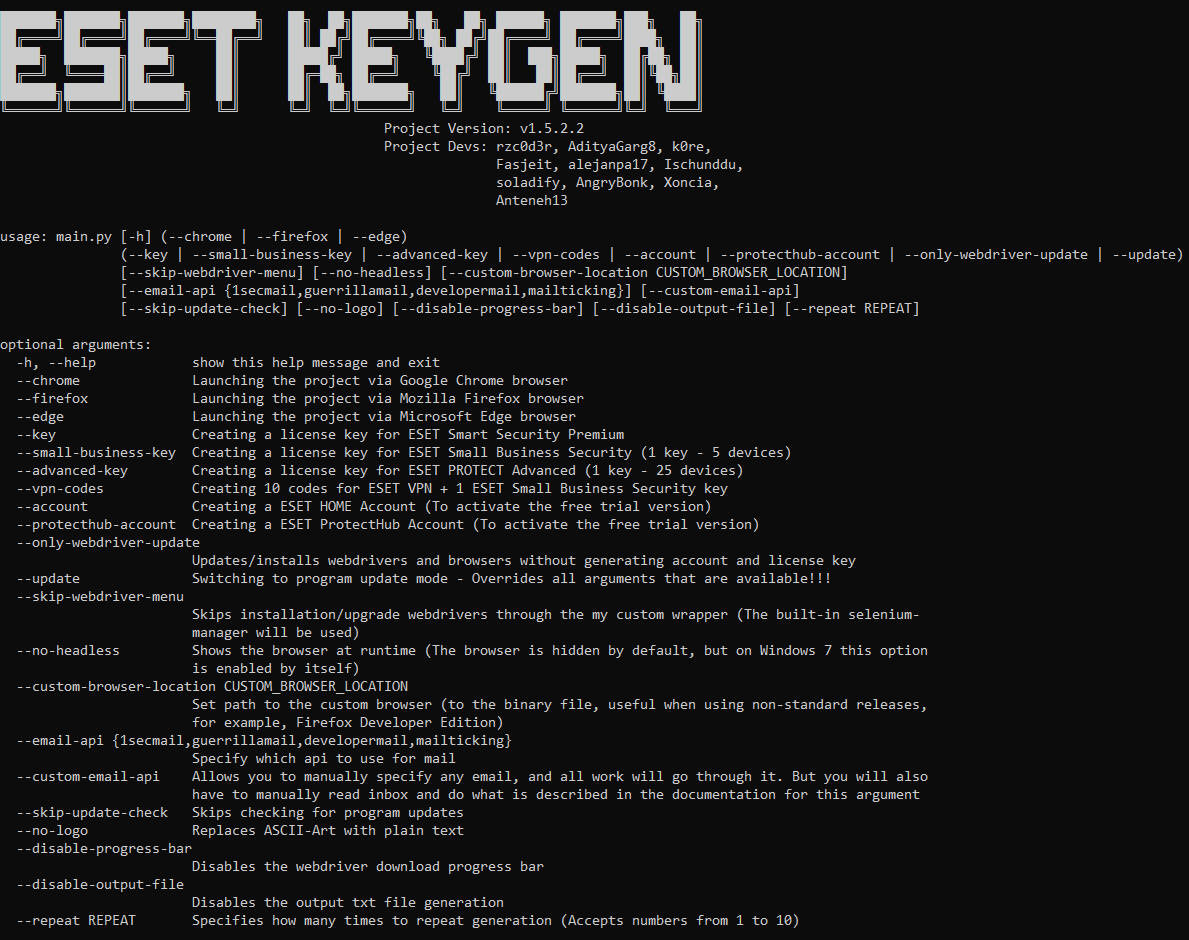
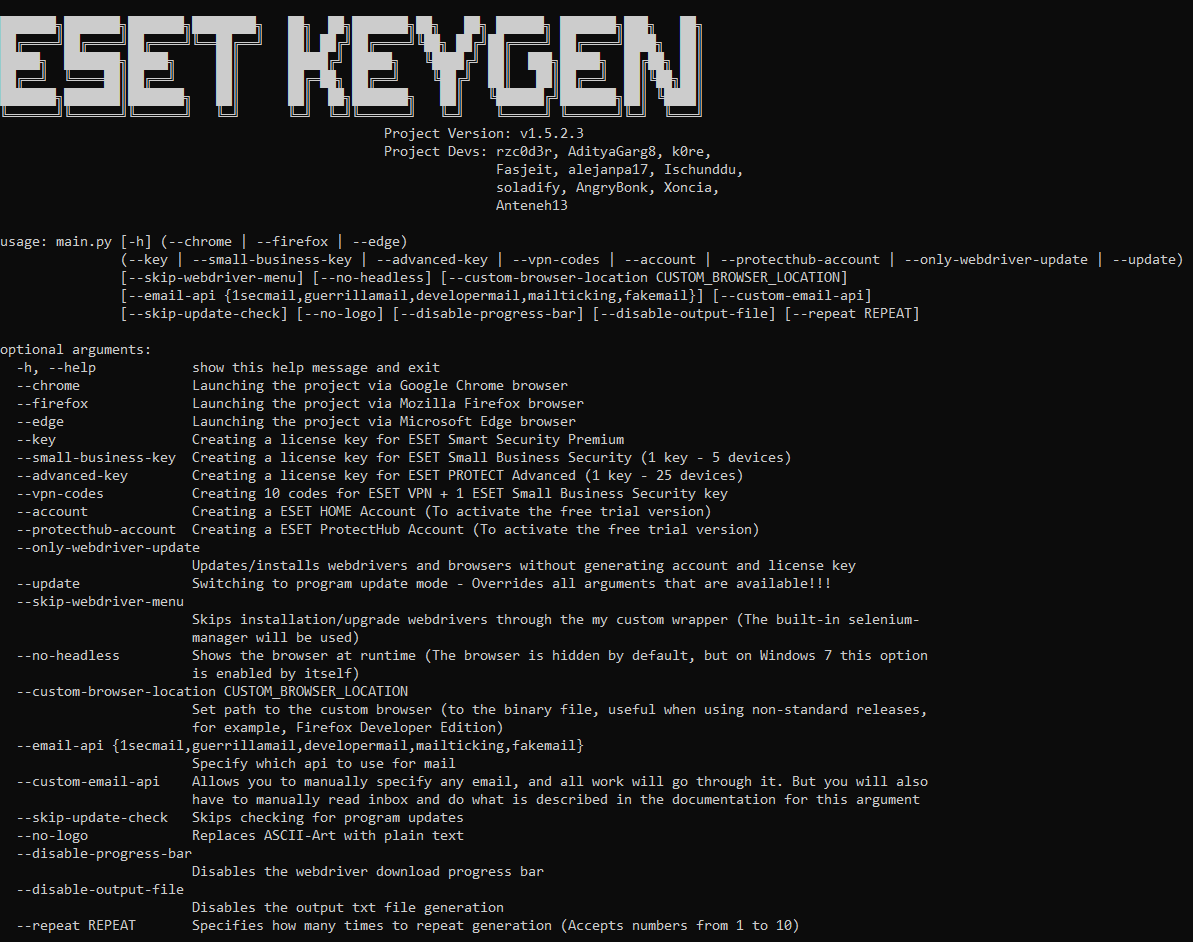
Update to v1.5.2.3
1. Added new Email API: fakemail
Works with --advanced-key and --protecthub-account

Changed region(s): [[0.0, 0.0, 0.9958, 0.9872]]

diff --git a/main.py b/main.py
@@ -3,7 +3,7 @@ from modules.EmailAPIs import *
 import sys
 
 # ---- Quick settings [for Developers to quickly change behavior without changing all files] ----
-VERSION = ['v1.5.2.2', 1522]
+VERSION = ['v1.5.2.3', 1523]
 LOGO = f"""
 ███████╗███████╗███████╗████████╗   ██╗  ██╗███████╗██╗   ██╗ ██████╗ ███████╗███╗   ██╗
 ██╔════╝██╔════╝██╔════╝╚══██╔══╝   ██║ ██╔╝██╔════╝╚██╗ ██╔╝██╔════╝ ██╔════╝████╗  ██║
@@ -21,13 +21,14 @@ if '--no-logo' in sys.argv:
     LOGO = f"ESET KeyGen {VERSION[0]} by rzc0d3r\n"
 
 DEFAULT_EMAIL_API = 'developermail'
-AVAILABLE_EMAIL_APIS = ('1secmail', 'guerrillamail', 'developermail', 'mailticking')
-WEB_WRAPPER_EMAIL_APIS = ('guerrillamail', 'mailticking')
+AVAILABLE_EMAIL_APIS = ('1secmail', 'guerrillamail', 'developermail', 'mailticking', 'fakemail')
+WEB_WRAPPER_EMAIL_APIS = ('guerrillamail', 'mailticking', 'fakemail')
 EMAIL_API_CLASSES = {
     'guerrillamail': GuerRillaMailAPI,    
     '1secmail': OneSecEmailAPI,
     'developermail': DeveloperMailAPI,
-    'mailticking': MailTickingAPI
+    'mailticking': MailTickingAPI,
+    'fakemail': FakeMailAPI
 }
 MAX_REPEATS_LIMIT = 10
 
@@ -241,8 +242,8 @@ def main(disable_exit=False):
             elif args['advanced_key'] or args['protecthub_account']:
                 args['no_headless'] = True
                 if not args['custom_email_api']:
-                    if args['email_api'] not in ['mailticking']:
-                        raise RuntimeError('--advanced-key, --protecthub-account works ONLY if you use the --custom-email-api argument or the following Email APIs: mailticking!!!')
+                    if args['email_api'] not in ['mailticking', 'fakemail']:
+                        raise RuntimeError('--advanced-key, --protecthub-account works ONLY if you use the --custom-email-api argument or the following Email APIs: mailticking, fakemail!!!')
         
         # check program updates
         if args['update']:

diff --git a/modules/SharedTools.py b/modules/SharedTools.py
@@ -235,13 +235,13 @@ def parseToken(email_obj, driver=None, eset_business=False, delay=DEFAULT_DELAY,
                     activated_href = message['body']
                 elif message['from'].find('product.eset.com') != -1:
                     activated_href = message['body']
-        elif email_obj.class_name in ['guerrillamail', 'mailticking']:
+        elif email_obj.class_name in ['guerrillamail', 'mailticking', 'fakemail']:
             inbox = email_obj.parse_inbox()
             for mail in inbox:
                 mail_id, mail_from, mail_subject = mail
                 if mail_from.find('product.eset.com') != -1 or mail_from.find('ESET HOME') != -1 or mail_subject.find('ESET PROTECT Hub') != -1:
                     email_obj.open_mail(mail_id)
-                    if email_obj.class_name == 'mailticking':
+                    if email_obj.class_name in ['mailticking']:
                         time.sleep(1.5)
                     try:
                         if eset_business:
@@ -275,7 +275,7 @@ def parseEPHKey(email_obj, driver=None, delay=DEFAULT_DELAY, max_iter=DEFAULT_MA
                     if message['subject'].find('Thank you for purchasing') != -1:
                         license_data = message['body']
                         break
-        if email_obj.class_name == 'mailticking':
+        if email_obj.class_name in ['mailticking', 'fakemail']:
             inbox = email_obj.parse_inbox()
             for mail in inbox:
                 mail_id, mail_from, mail_subject = mail
@@ -308,7 +308,7 @@ def parseVPNCodes(email_obj, driver=None, delay=DEFAULT_DELAY, max_iter=DEFAULT_
                 for message in messages:
                     if message['subject'].find('VPN - Setup instructions') != -1:
                         data = message['body']
-        elif email_obj.class_name in ['guerrillamail', 'mailticking']:
+        elif email_obj.class_name in ['guerrillamail', 'mailticking', 'fakemail']:
             inbox = email_obj.parse_inbox()
             for mail in inbox:
                 mail_id, mail_from, mail_subject = mail

diff --git a/modules/EmailAPIs.py b/modules/EmailAPIs.py
@@ -48,6 +48,17 @@ PARSE_MAILTICKING_INBOX = """function MailTickingParse() {
     return inbox;
 }
 return MailTickingParse()"""
+PARSE_FAKEMAIL_INBOX = """
+let raw_inbox = Array.from(document.getElementById('schranka').children).slice(0, -3)
+let inbox = []
+for(let i=0; i < raw_inbox.length; i++) {
+    let id = raw_inbox[i].dataset.href
+    let from = raw_inbox[i].children[0].children[1].tagName.toLowerCase()
+    let subject = raw_inbox[i].children[1].innerText.trim()
+    inbox.push([id, from, subject])
+}
+return inbox
+"""
 
 class OneSecEmailAPI:
     def __init__(self):
@@ -195,10 +206,32 @@ class MailTickingAPI:
         self.driver.switch_to.window(self.window_handle)
         self.driver.get(id)
 
+class FakeMailAPI:
+    def __init__(self, driver: Chrome):
+        self.class_name = 'fakemail'
+        self.driver = driver
+        self.email = None
+        self.window_handle = None
+
+    def init(self):     
+        self.driver.get('https://www.fakemail.net')
+        self.window_handle = self.driver.current_window_handle
+        untilConditionExecute(self.driver, f'return {GET_EBID}("email").innerText != null')
+        self.email = self.driver.execute_script(f'return {GET_EBID}("email").innerText')
+    
+    def parse_inbox(self):
+        self.driver.switch_to.window(self.window_handle)
+        self.driver.get('https://www.fakemail.net')
+        inbox = self.driver.execute_script(PARSE_FAKEMAIL_INBOX)
+        return inbox
+
+    def open_mail(self, id):
+        self.driver.switch_to.window(self.window_handle)
+        self.driver.get(f'https://www.fakemail.net/email/id/{id}')
 
 class CustomEmailAPI:
     def __init__(self):
         self.class_name = 'custom'
         self.email = None
 
-WEB_WRAPPER_EMAIL_APIS_CLASSES = (GuerRillaMailAPI, MailTickingAPI)
+WEB_WRAPPER_EMAIL_APIS_CLASSES = (GuerRillaMailAPI, MailTickingAPI, FakeMailAPI)

diff --git a/wiki/KeyGenerator.md b/wiki/KeyGenerator.md
@@ -18,7 +18,7 @@ Add a command-line argument: ```--repeat {number}```
   python main.py --chrome --key
   ```
   ```
-  ESET-KeyGen_v1.5.2.0_win64.exe --chrome --key
+  ESET-KeyGen_v1.5.2.3_win64.exe --chrome --key
   ```
   > File name is unique for each version! Do not copy the above command. This is an example!
 
@@ -36,7 +36,7 @@ Add a command-line argument: ```--repeat {number}```
   python main.py --chrome --small-business-key
   ```
   ```
-  ESET-KeyGen_v1.5.2.0_win64.exe --chrome --small-business-key
+  ESET-KeyGen_v1.5.2.3_win64.exe --chrome --small-business-key
   ```
   > File name is unique for each version! Do not copy the above command. This is an example!
 
@@ -54,11 +54,11 @@ Add a command-line argument: ```--repeat {number}```
   python main.py --chrome --advanced-key
   ```
   ```
-  ESET-KeyGen_v1.5.2.0_win64.exe --chrome --advanced-key
+  ESET-KeyGen_v1.5.2.3_win64.exe --chrome --advanced-key
   ```
   > File name is unique for each version! Do not copy the above command. This is an example!
 
-  > **Works ONLY if you use the ```--custom-email-api``` argument or the following ```Email APIs```: ```mailticking```**
+  > **Works ONLY if you use the ```--custom-email-api``` argument or the following ```Email APIs```: ```mailticking```, ```fakemail```**
 
   2. Wait until appears you will see *"Solve the captcha on the page manually!!!"*. Next, you will see a captcha with text input in the browser window created. You solve it and then just do nothing, the algorithm will do everything for you!
 
@@ -76,7 +76,7 @@ Add a command-line argument: ```--repeat {number}```
   python main.py --chrome --vpn-codes
   ```
   ```
-  ESET-KeyGen_v1.5.2.0_win64.exe --chrome --vpn-codes
+  ESET-KeyGen_v1.5.2.3_win64.exe --chrome --vpn-codes
   ```
   > File name is unique for each version! Do not copy the above command. This is an example!
 
@@ -97,7 +97,7 @@ Add a command-line argument: ```--repeat {number}```
   python main.py --chrome --key --custom-email-api
   ```
   ```
-  ESET-KeyGen_v1.5.2.0_win64.exe --chrome --key --custom-email-api
+  ESET-KeyGen_v1.5.2.3_win64.exe --chrome --key --custom-email-api
   ```
   > File name is unique for each version! Do not copy the above command. This is an example!
 
@@ -107,7 +107,7 @@ Add a command-line argument: ```--repeat {number}```
   python main.py --chrome --small-business-key --custom-email-api
   ```
   ```
-  ESET-KeyGen_v1.5.2.0_win64.exe --chrome --small-business-key --custom-email-api
+  ESET-KeyGen_v1.5.2.3_win64.exe --chrome --small-business-key --custom-email-api
   ```
   > File name is unique for each version! Do not copy the above command. This is an example!
 
@@ -142,7 +142,7 @@ Add a command-line argument: ```--repeat {number}```
   python main.py --chrome --advanced-key --custom-email-api
   ```
   ```
-  ESET-KeyGen_v1.5.2.0_win64.exe --chrome --advanced-key --custom-email-api
+  ESET-KeyGen_v1.5.2.3_win64.exe --chrome --advanced-key --custom-email-api
   ```
   > File name is unique for each version! Do not copy the above command. This is an example!
 
@@ -185,7 +185,7 @@ Add a command-line argument: ```--repeat {number}```
   python main.py --chrome --vpn-codes --custom-email-api
   ```
   ```
-  ESET-KeyGen_v1.5.2.0_win64.exe --chrome --vpn-codes --custom-email-api
+  ESET-KeyGen_v1.5.2.3_win64.exe --chrome --vpn-codes --custom-email-api
   ```
   > File name is unique for each version! Do not copy the above command. This is an example!
 

diff --git a/wiki/CommandLineArguments.md b/wiki/CommandLineArguments.md
@@ -18,10 +18,10 @@
 | --------------------- | ---------------------------------------------------------------------------------------------------------- |
 | --key | Creating a license key for ESET Smart Security Premium                                                                     |
 | --small-business-key  | Creating a license key for ESET Small Business Security (1 key - 5 devices)                                |
-| --advanced-key        | Creating a license key for ESET PROTECT Advanced (1 key - 25 devices) - works only with ```--email-api mailticking``` and ```--custom-email-api``` |
+| --advanced-key        | Creating a license key for ESET PROTECT Advanced (1 key - 25 devices) - works only with ```mailticking```, ```fakemail``` and ```--custom-email-api``` |
 | --vpn-codes           | Creating 10 codes for ESET VPN + 1 ESET Small Business Security key                                        |
 | --account             | Creating an ESET HOME Account (To activate the free trial version)                                         |
-| --protecthub-account  | Creating a ESET ProtectHub Account (To activate the free trial version) - works only with ```--email-api mailticking``` and ```--custom-email-api``` |
+| --protecthub-account  | Creating a ESET ProtectHub Account (To activate the free trial version) - works only with ```mailticking```, ```fakemail``` and ```--custom-email-api``` |
 | --only-webdriver-update | Updates/installs webdrivers and browsers without generating accounts and license keys                    |
 | --update         | Switching to program update mode - **Overrides all arguments that are available**                               |
 --------------------------------------------------------------------------------------------------------------------------------------
@@ -33,7 +33,7 @@
 | --skip-webdriver-menu              | Skips installation/upgrade webdrivers through the my custom wrapper (The built-in selenium-manager will be used)                     |
 | --no-headless                      | Shows the browser at runtime (The browser is hidden by default, but on (Windows 7) and (enabled --business-key or --business-account options) this option is enabled by itself) |
 | --custom-browser-location {string} | Set path to the custom browser (to the binary file, useful when using non-standard releases, for example: Firefox Developer Edition, Brave) |
-| --email-api {1secmail, guerrillamail, developermail, mailticking} | Specify which api to use for mail, default - ```developermail``` |
+| --email-api {1secmail, guerrillamail, developermail, mailticking, fakemail} | Specify which api to use for mail, default - ```developermail``` |
 | --custom-email-api | Allows you to manually specify any email, and all work will go through it - **Requires manually read inbox and do what is described in the documentation for this argument!!!**, **Also use this argument if you are unable to generate anything using all the implemented email APIs above** |
 | --no-logo              | Replaces ASCII-Art with plain text |
 | --disable-progress-bar | Disables the webdriver download progress bar |

diff --git a/wiki/AccountGenerator.md b/wiki/AccountGenerator.md
@@ -18,7 +18,7 @@ Add a command-line argument: ```--repeat {number}```
   python main.py --chrome --account
   ```
   ```
-  ESET-KeyGen_v1.5.2.0_win64.exe --chrome --account
+  ESET-KeyGen_v1.5.2.3_win64.exe --chrome --account
   ```
   > File name is unique for each version! Do not copy the above command. This is an example!
 
@@ -36,11 +36,11 @@ Add a command-line argument: ```--repeat {number}```
   python main.py --chrome --business-account
   ```
   ```
-  ESET-KeyGen_v1.5.2.0_win64.exe --chrome --protecthub-account
+  ESET-KeyGen_v1.5.2.3_win64.exe --chrome --protecthub-account
   ```
   > File name is unique for each version! Do not copy the above command. This is an example!
   
-  > **Works ONLY if you use the ```--custom-email-api``` argument or the following ```Email APIs```: ```mailticking```, ```developermail```**
+  > **Works ONLY if you use the ```--custom-email-api``` argument or the following ```Email APIs```: ```mailticking```, ```fakemail```**
 
   2. Wait until appears you will see *"Solve the captcha on the page manually!!!"*. Next, you will see a captcha with text input in the browser window created. You solve it and then just do nothing, the algorithm will do everything for you!
 
@@ -60,7 +60,7 @@ Add a command-line argument: ```--repeat {number}```
   python main.py --chrome --account --custom-email-api
   ```
   ```
-  ESET-KeyGen_v1.5.2.0_win64.exe --chrome --account --custom-email-api
+  ESET-KeyGen_v1.5.2.3_win64.exe --chrome --account --custom-email-api
   ```
   > File name is unique for each version! Do not copy the above command. This is an example!
 
@@ -91,7 +91,7 @@ Add a command-line argument: ```--repeat {number}```
   python main.py --chrome --protecthub-account --custom-email-api
   ```
   ```
-  ESET-KeyGen_v1.5.2.0_win64.exe --chrome --protecthub-account --custom-email-api
+  ESET-KeyGen_v1.5.2.3_win64.exe --chrome --protecthub-account --custom-email-api
   ```
   > File name is unique for each version! Do not copy the above command. This is an example!
 
